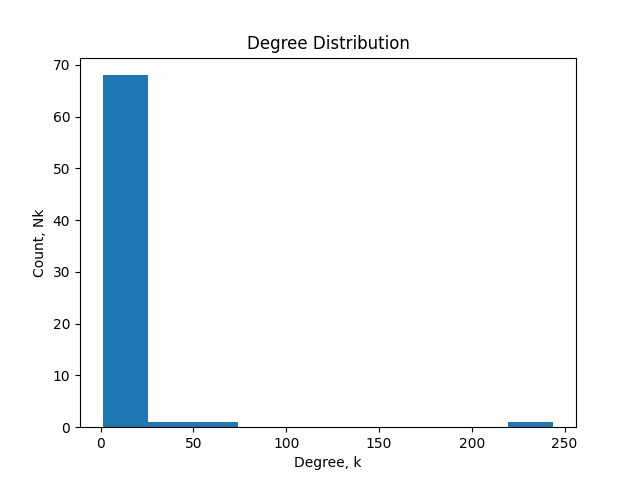
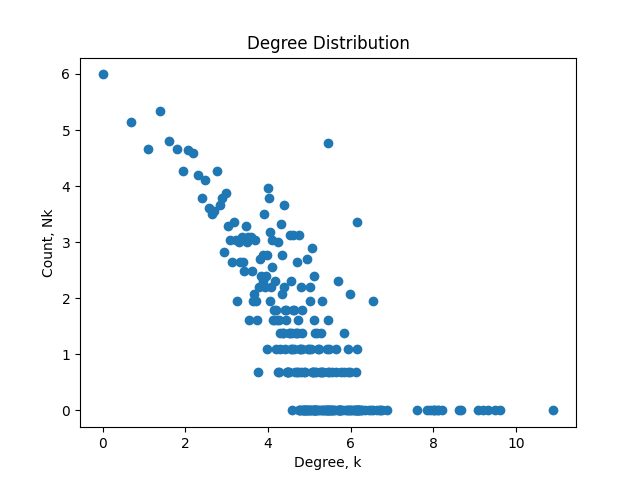
mostly completed network analysis, edited graph drawing

diff --git a/create_network.py b/create_network.py
@@ -2,6 +2,7 @@ import os
 import networkx as nx
 import pandas as pd
 import matplotlib.pyplot as plt
+from network_analysis import get_network_analysis 
 
 def set_interaction(id, parent_id, coc_df, post_df, has_interaction):
   # check for comments replying to a comment (parent_id = id)
@@ -38,7 +39,8 @@ def create_edges(parent_row, child_rows):
       graph.add_weighted_edges_from([(child_author, parent_author, 1)])
 
 def create_graph():
-  nx.draw(graph, node_size=10)
+  weights = [float(f"1.{graph[u][v]['weight']}") for u,v in graph.edges()]
+  nx.draw(graph, node_size=10, width=weights)
   plt.savefig("graphs/graph.png".format(type), bbox_inches='tight')
   plt.show()
   plt.clf()  # clear canvas to show most recent graph
@@ -60,49 +62,6 @@ def get_df():
 
   return coc_df, post_df
 
-def get_graph_analysis():
-  get_node_degree_distribution()  # Node degree distribution
-  get_weakly_connected_component()  # Weakly connected component
-
-def create_graph_analysis(graph_values, title, xlabel, ylabel, file_name):
-  plt.hist(graph_values)
-  plt.title(title)
-  plt.xlabel(xlabel)
-  plt.ylabel(ylabel)
-  plt.savefig(file_name)
-  plt.clf()
-
-def get_node_degree_distribution():
-  # The degree is the sum of the edge weights adjacent to the node.
-  # TODO: change to plot log-log scatter plot
-  # all degrees
-  d = [k for n, k in graph.degree(weight='weight')]
-  # x-axis
-  x = []
-  for v in d:
-      if v not in x:
-          x.append(v)
-  # y-axis
-  y = [d.count(v) for v in x]
-  print(x, y)
-
-  create_graph_analysis(d, "Degree Distribution",
-                        "Degree, k", "Count, Nk", "graphs/dd_all.png")
-
-  # in degree
-  ind = d = [k for n, k in graph.in_degree(weight='weight')]
-  create_graph_analysis(ind, "In Degree Distribution",
-                        "In Degree, k", "Count, Nk", "graphs/dd_in.png")
-
-  # out degree
-  outd = [k for n, k in graph.out_degree(weight='weight')]
-  create_graph_analysis(outd, "Out Degree Distribution",
-                        "Out Degree, k", "Count, Nk", "graphs/dd_out.png")
-
-def get_weakly_connected_component():
-  create_graph_analysis("outd", "Out Degree Distribution",
-                        "Out Degree, k", "Count, Nk", "graphs/dd_out.png")
-
 if __name__ == "__main__":
   # get 'Comment On Comment Dataframe' and 'Post Dataframe'
   coc_df, post_df = get_df()
@@ -110,22 +69,29 @@ if __name__ == "__main__":
 
   filter_coc_df(coc_df)
   graph = nx.DiGraph()
-
+  
   # l = 1
+  print("Creating edges...")
   for id in coc_df['parent_id']:
-    #   if l <= 10:
-    parent_id = id.split('_', 1)[1]
-    has_interaction = True
-    parent_row, child_rows, has_interaction = set_interaction(
-      id, parent_id, coc_df, post_df, has_interaction)
+    # if l <= 10:
+      parent_id = id.split('_', 1)[1]
+      has_interaction = True
+      parent_row, child_rows, has_interaction = set_interaction(id, parent_id,
+                                                                coc_df, post_df,
+                                                                has_interaction)
 
-    if has_interaction:
-      # create edges and set nodes name=author
-      create_edges(parent_row, child_rows)
-    # l += 1
-
+      if has_interaction:
+        # create edges and set nodes name=author
+        create_edges(parent_row, child_rows)
+      # l += 1
+  print("Edges created!")
+  
   # draw and show graph after adding edges
+  print("Creating graph...")
   create_graph()
+  print("Graph created!")
 
-  # TODO: analyze the graph and print into file
-  get_graph_analysis()
+  # TODO: analyze the graph with more data and print into file
+  print("Analzing network...")
+  get_network_analysis(graph)
+  print("Network analyzed!")

diff --git a/network_analysis.py b/network_analysis.py
@@ -1,0 +1,64 @@
+import networkx as nx
+import pandas as pd
+import matplotlib.pyplot as plt
+import math
+
+def get_network_analysis(graph):
+
+  # TODO: write into file
+  # print('#nodes: {}\n#edges: {}\nEdges: {}\n'.format(graph.number_of_nodes(), graph.number_of_edges(), graph.edges.data('weight')))
+
+  get_node_degree_distribution(graph) # Node degree distribution
+  get_weakly_connected_component(graph) # Weakly connected component
+
+  # TODO: local clustering coefficient - look into if this is done correctly
+  # do we also want to include average (global) clustering coefficient?
+  get_clustering_coefficient(graph) # Local clustering coefficient
+
+
+def create_graph_analysis(x, y, title, xlabel, ylabel, file_name):
+  plt.scatter(x, y)
+  plt.title(title)
+  plt.xlabel(xlabel)
+  plt.ylabel(ylabel)
+  plt.savefig(file_name)
+  plt.clf() 
+
+def get_x(values):
+  # calculate log for x-axis
+  set_list = list(set(values)) # remove duplicates
+  x = [math.log(v) if v != 0 else 0 for v in set_list] 
+  return x
+
+def get_y(values):
+  # count frequency and calculate log for y-axis
+  set_list = list(set(values)) # remove duplicates
+  y = [math.log(values.count(v)) for v in set_list]
+  return y
+
+def get_node_degree_distribution(graph):
+  # the degree is the sum of the edge weights adjacent to the node.
+  # all degrees
+  d = [k for n, k in graph.degree(weight='weight')]
+  create_graph_analysis(get_x(d), get_y(d), "Degree Distribution", "Degree, k", "Count, Nk", "graphs/dd_all.png")
+
+  # in degree
+  ind = [k for n, k in graph.in_degree(weight='weight')]
+  create_graph_analysis(get_x(ind), get_y(ind), "In Degree Distribution", "In Degree, k", "Count, Nk", "graphs/dd_in.png")
+
+  # out degree
+  outd = [k for n, k in graph.out_degree(weight='weight')]
+  create_graph_analysis(get_x(outd), get_y(outd), "Out Degree Distribution", "Out Degree, k", "Count, Nk", "graphs/dd_out.png")
+
+def get_weakly_connected_component(graph):
+  # create subgraphs for weakly connected components
+  subgraphs = [graph.subgraph(wcc) for wcc in nx.weakly_connected_components(graph)]
+  # count size of subgraphs
+  sizes = [g.number_of_nodes() for g in subgraphs]
+  create_graph_analysis(get_x(sizes), get_y(sizes), "Weakly Connected Component", "Weakly connected component size", "Count", "graphs/wcc.png")
+
+def get_clustering_coefficient(graph):
+  # get clustering coefficient for each node in graph
+  # the edge attribute that holds the numerical value used as a weight
+  cc = [v for n, v in nx.clustering(graph, weight='weight').items()]
+  create_graph_analysis(get_x(cc), get_y(cc), "Local Clustering Coefficient", "Clustering coefficient, c", "Count", "graphs/cc.png")
